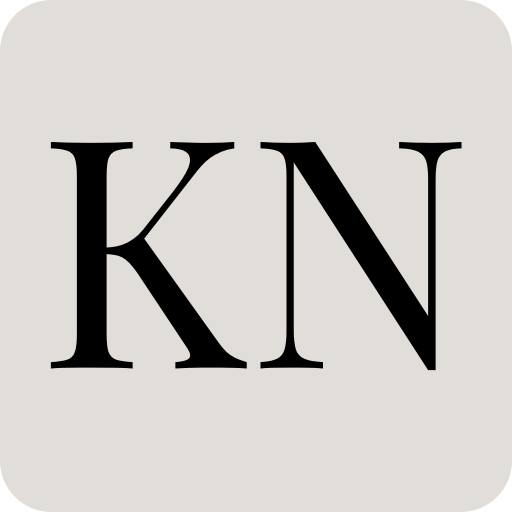
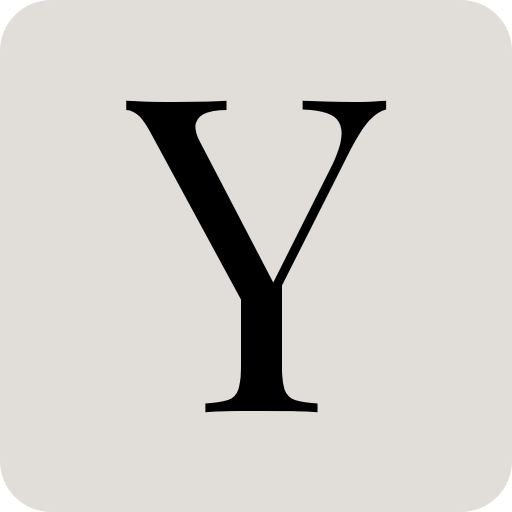
updated readme

Changed region(s): [[0.0938, 0.1875, 0.9062, 0.8125]]

diff --git a/index.html b/index.html
@@ -1,105 +1,133 @@
 <!DOCTYPE html>
 <html lang="en">
-  <head>
-    <meta charset="UTF-8" />
-    <link rel="apple-touch-icon" sizes="180x180" href="/apple-touch-icon.png">
-    <link rel="icon" type="image/png" sizes="32x32" href="/favicon-32x32.png">
-    <link rel="icon" type="image/png" sizes="16x16" href="/favicon-16x16.png">
-    <link rel="manifest" href="/site.webmanifest">
-    <meta name="viewport" content="width=device-width, initial-scale=1.0" />
-    <title>Vite App</title>
-  </head>
-  <body class=" bg-[#E1DDD8]">
-    <div id="app">
-      <div class="main-screen w-screen">
+
+<head>
+  <meta charset="UTF-8" />
+  <link rel="apple-touch-icon" sizes="180x180" href="/apple-touch-icon.png">
+  <link rel="icon" type="image/png" sizes="32x32" href="/favicon-32x32.png">
+  <link rel="icon" type="image/png" sizes="16x16" href="/favicon-16x16.png">
+  <link rel="manifest" href="/site.webmanifest">
+  <meta name="viewport" content="width=device-width, initial-scale=1.0" />
+<!-- Primary Meta Tags -->
+<title>Yemisi Olutayo - Model and Entrepenuer</title>
+<meta name="title" content="Yemisi Olutayo - Model and Entrepenuer">
+<meta name="description" content=" Yemisi Olutayo is an Entrepreneur with a passion for modelling.
+Currently CEO of the16thfashion">
+
+<!-- Open Graph / Facebook -->
+<meta property="og:type" content="website">
+<meta property="og:url" content="https://metatags.io/">
+<meta property="og:title" content="Yemisi Olutayo - Model and Entrepenuer">
+<meta property="og:description" content=" Yemisi Olutayo is an Entrepreneur with a passion for modelling.
+Currently CEO of the16thfashion">
+<meta property="og:image" content="https://i.ibb.co/cQ6q71N/1.jpg">
+
+<!-- Twitter -->
+<meta property="twitter:card" content="summary_large_image">
+<meta property="twitter:url" content="https://metatags.io/">
+<meta property="twitter:title" content="Yemisi Olutayo - Model and Entrepenuer">
+<meta property="twitter:description" content=" Yemisi Olutayo is an Entrepreneur with a passion for modelling.
+Currently CEO of the16thfashion">
+<meta property="twitter:image" content="https://i.ibb.co/cQ6q71N/1.jpg">
+</head>
+
+<body class=" bg-[#E1DDD8]">
+  <div id="app">
+    <div class="main-screen w-screen">
 
 
-        <div class="main-image h-screen w-screen flex justify-center items-center text-orange-500">
-          <div class="main-text absolute font-display text-center">
-            <div class="main-image__text text-[5rem] md:text-9xl mb-56 overflow-hidden">
-              <div class="main-image__text__inner">
-              KOHLER
-              </div>
-            </div>
-            <div class="main-image__text text-[5rem] md:text-9xl overflow-hidden">
-              <div class="main-image__text__inner">
-                NORMANI
-                </div>
+      <div class="main-image h-screen w-screen flex justify-center items-center text-orange-500">
+        <div class="main-text absolute font-display text-center z-[99]">
+          <div class="main-image__text text-[5rem] md:text-9xl mb-56 overflow-hidden">
+            <div class="main-image__text__inner">
+              YEMISI
             </div>
           </div>
-         
-          <div class="main-image__container h-[60%] w-[60%]">
-            <div class="main-image__inner bg-blend-multiply font-display w-full h-full bg-[url(/images/1.jpg)] bg-cover bg-center flex justify-center items-center text-center">
-             <div class="enter-btn text-4xl text-orange-500 cursor-pointer z-[999]">
-              Enter ➛
-             </div>
-          </div>
+          <div class="main-image__text text-[5rem] md:text-9xl overflow-hidden">
+            <div class="main-image__text__inner">
+              OLUTAYO
+            </div>
           </div>
         </div>
 
-        <div id="page" class="hidden">
+        <div class="main-image__container h-[60%] w-[60%]">
+          <div
+            class="main-image__inner bg-blend-multiply w-full h-full bg-[url(/images/1.jpg)] bg-cover bg-center flex justify-center items-center text-center grayscale">
+
+          </div>
+        </div>
+        <div class="enter-btn text-4xl text-orange-500 cursor-pointer font-display z-[999]">
+          Enter ➛
+        </div>
+      </div>
+
+      <div id="page" class="hidden">
         <section class="section-1 w-screen flex flex-col md:flex-row justify-around font-display">
           <div class="section-1__main w-full md:w-[57%] pl-12">
             <!-- thumbnail images -->
             <div class="w-full flex flex-row gap-8 justify-between">
-              <div class="thumb hidden md:block h-72 w-44 bg-[url(/images/2.jpg)] bg-cover bg-center rounded-full mt-7">
+              <div
+                class="thumb grayscale hidden md:block h-72 w-44 bg-[url(/images/2.jpg)] bg-cover bg-center rounded-full mt-7">
 
               </div>
-              <div class="thumb h-72 w-44 bg-[url(/images/3.jpg)] bg-cover bg-center rounded-b-full">
-  
+              <div class="thumb grayscale h-72 w-44 bg-[url(/images/3.jpg)] bg-cover bg-center rounded-b-full">
+
               </div>
-              <div class="thumb hidden md:block h-72 w-44 bg-[url(/images/4.jpg)] bg-cover bg-center rounded-full mt-7">
-  
+              <div
+                class="thumb grayscale hidden md:block h-72 w-44 bg-[url(/images/4.jpg)] bg-cover bg-center rounded-full mt-7">
+
               </div>
             </div>
 
             <div class="section-1__main-text__container text-6xl md:text-8xl mt-7">
               <div class="section-1__main-text overflow-hidden h-24">
                 <div class="section-1__main-text__inner">
-                  KOHLER
+                  YEMISI
                 </div>
               </div>
               <div class="section-1__main-text overflow-hidden h-24">
                 <div class="section-1__main-text__inner">
-                  NORMANI
+                  OLUTAYO
                 </div>
               </div>
               <div class="section-1__main-text__desc text-xl md:text-3xl text-orange-500 overflow-hidden h-12">
                 <div class="section-1__main-text__desc__inner" data-splitting>
-                  Model / Entrepenuer / Stallion
+                  Model / Entrepenuer
                 </div>
 
               </div>
             </div>
-          
-            
+
+
           </div>
-          
+
           <div class="section-1__side block w-full mt-4 md:flex items-center md:w-[40%] text-3xl pl-4">
             <div class="mx-8">
-              Kohler Normani is a Runway addict with a passion for <span class="text-orange-500 contents cursor-pointer">photography</span>
+              Yemisi is an Entrepreneur with a passion for   <a href="https://www.instagram.com/yemisi.olutayo/" target="_blank" class="cursor-pointer">modelling</a> <br>
+              Currently CEO of <a href="https://www.instagram.com/the16thfashion/" target="_blank">the16thfashion</a>
 
               <div class="side-links mt-6 text-orange-500">
-                <span class="cursor-pointer">
+                <a href="https://www.instagram.com/yemisi.olutayo/" target="_blank" class="cursor-pointer">
                   Instagram /
-                </span>
-                <span class="cursor-pointer">
+                </a>
+                <a href="https://www.tiktok.com/@yem_yem3" target="_blank" class="cursor-pointer">
+                  Tiktok /
+                </a>
+                <a href="https://twitter.com/Yemisi44978312" target="_blank" class="cursor-pointer">
                   Twitter /
-                </span>
-                <span class="cursor-pointer">
-                  Behance
-                </span>
+                </a>
+
               </div>
             </div>
-            
           </div>
 
           <div class="absolute bottom-0 right-0 h-fit w-fit opacity-70 mr-4">Images from unsplash</div>
         </section>
-        </div>
-
       </div>
+
     </div>
-    <script type="module" src="/main.js"></script>
-  </body>
+  </div>
+  <script type="module" src="/main.js"></script>
+</body>
+
 </html>

diff --git a/style.scss b/style.scss
@@ -16,3 +16,17 @@
         transform: scale(1.4);
     }
 }
+.enter-btn{
+    // center on the screen
+    position: absolute;
+    top: 50%;
+    left: 50%;
+    transform: translate(-50%, -50%);
+    // center on the screen
+}
+a{
+    color:
+    // tailwind orange 500
+    #F9731C;
+    ;
+}

diff --git a/style.css b/style.css
@@ -14,4 +14,15 @@
 }
 .image-hover:hover {
   transform: scale(1.4);
+}
+
+.enter-btn {
+  position: absolute;
+  top: 50%;
+  left: 50%;
+  transform: translate(-50%, -50%);
+}
+
+a {
+  color: #F9731C;
 }/*# sourceMappingURL=style.css.map */

diff --git a/README.md b/README.md
@@ -1,1 +1,1 @@
-# Kohler-normani
+# Yemisi Olutayo
